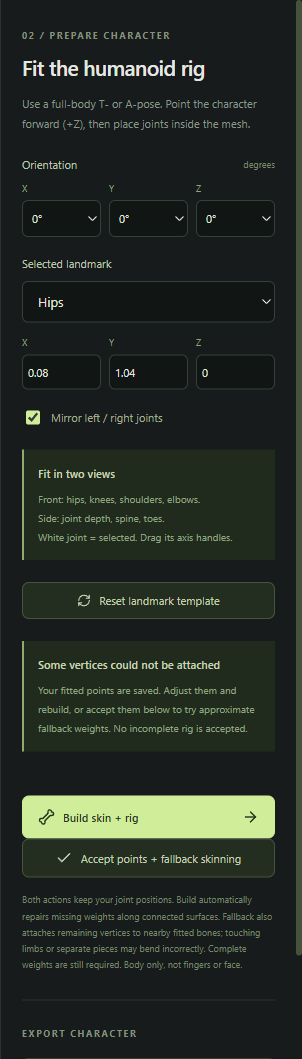
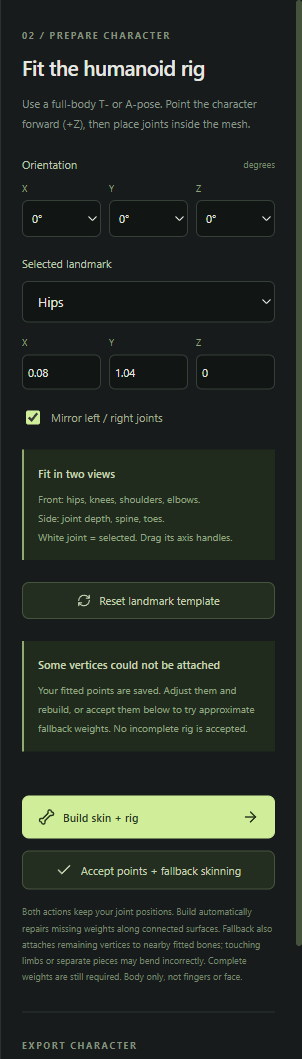
Add spacing between rigging action buttons
Use a scoped 12px gap, verify it in the desktop smoke check, and refresh the README screenshot.

Changed region(s): [[0.0596, 0.8102, 0.894, 0.9348], [0.0596, 0.966, 0.894, 1.0], [0.9834, 0.8725, 1.0, 0.9037]]

diff --git a/src/renderer/style.css b/src/renderer/style.css
@@ -1,4 +1,5 @@
 :root{font-family:"Segoe UI Variable","Segoe UI",sans-serif;color:#e5e8e2;background:#111414;font-synthesis:none;font-size:13px;--muted:#8c9692;--line:#2b3331;--lime:#d0ed9a;--panel:#171b1b}
+.rig-fallback-button{margin-top:12px}
 .graph-library.library-modal{width:min(1680px,97vw);padding:22px;max-height:96vh}.graph-library .library-grid{grid-template-columns:170px minmax(380px,1fr) 285px;gap:20px;align-items:start}.graph-library .preset-list{max-height:73vh;overflow:auto;padding-right:15px}.graph-inspector{border-left:1px solid #35432c;padding-left:18px;padding-right:5px;max-height:73vh;overflow:auto}.graph-inspector .field-label{margin-top:13px}.graph-inspector .three-fields{gap:6px}.graph-inspector .three-fields input{padding:9px 5px}.graph-inspector .checkbox{margin:13px 0}.graph-inspector .secondary.full{margin-top:12px}.motion-graph{height:430px;border:1px solid #486239;border-radius:8px;overflow:hidden;background:#10180e}.motion-graph .react-flow{--xy-background-color:#10180e;--xy-controls-button-background-color:#2b3c23;--xy-controls-button-color:#d8ebc7;--xy-controls-button-border-color:#4b613d}.graph-card{width:218px;background:#1f2c1a;border:1px solid #688b4e;border-radius:9px;padding:13px 15px;box-shadow:0 6px 16px #0004;color:#d9e8ce}.graph-card.action{background:#19272c;border-color:#587c8b}.react-flow__node.selected .graph-card{outline:2px solid #dcf6b8;outline-offset:3px}.graph-card-tags{display:flex;justify-content:space-between;font-size:8px;letter-spacing:1.3px;color:#a8c792;margin-bottom:10px}.graph-card.action .graph-card-tags{color:#8cb9ca}.graph-card-tags b{background:#476333;border-radius:3px;color:#e7fbd4;padding:2px 4px;letter-spacing:.5px}.graph-card strong{display:block;font-size:13px}.graph-card p{font-size:10px;line-height:1.6;color:#9eb094;margin:8px 0;display:-webkit-box;-webkit-line-clamp:2;-webkit-box-orient:vertical;overflow:hidden;overflow-wrap:anywhere}.graph-card small{font-size:8px;color:#90aa7f}.graph-card .react-flow__handle{width:13px;height:13px;background:#cbeea5;border:3px solid #263d1b}.graph-card.action .react-flow__handle{background:#a4d5e5;border-color:#183c49}.context-inspector{padding:15px;background:#162113;border:1px solid #344d29;border-radius:7px;margin-top:16px}.context-inspector>p{font-size:10px;line-height:1.7;color:#9cb48c;margin:9px 0}.context-inspector strong{font-weight:550;color:#c5d8b8}.context-inspector summary,.graph-targets>summary{cursor:pointer;font-size:11px;color:#c5d8b8}.context-inspector details{margin-top:12px}.effective-prompt{font-size:11px;line-height:1.8;background:#0f190c;border-radius:5px;padding:12px;color:#bed3ab;margin-top:10px}.context-results{margin-top:18px}.context-results>div{border-top:1px solid #35492a;padding-top:10px;margin-top:10px}.context-results small{font-size:9px}.graph-library .node-actions>.fine-print{margin:0 0 0 auto}.graph-library .batch-item>.node-actions{flex:0 0 auto}.graph-targets{padding-bottom:15px}@media(max-width:1250px){.graph-library .library-grid{grid-template-columns:140px minmax(340px,1fr) 245px;gap:14px}.graph-inspector{padding-left:12px}.graph-library .preset-list{padding-right:10px}.motion-graph{height:390px}}
 .model-setup-guide{margin:18px 0;padding:16px;border:1px solid #576d40;border-radius:8px;background:#1f2b1c}.model-setup-guide>summary{cursor:pointer;font-size:13px;font-weight:600;color:#d0ed9a}.model-setup-guide>summary>span{display:block;font-size:10px;font-weight:400;color:#a6b59b;margin:7px 0 0 15px}.model-setup-content{margin-top:16px;font-size:11px;line-height:1.8;color:#adbea3}.model-setup-content p{margin:10px 0}.model-setup-content strong{color:#d6e5c7;font-weight:600}.model-setup-steps{padding-left:22px;margin:17px 0}.model-setup-steps>li{padding-left:5px;margin:19px 0}.model-setup-steps>li::marker{color:#d0ed9a;font-weight:600}.model-setup-steps h3{font-size:12px;color:#d6e5c7;font-weight:600}.model-setup-content pre{white-space:pre-wrap;overflow-wrap:anywhere;user-select:text;padding:11px;background:#10180e;border:1px solid #3b4e30;border-radius:5px;color:#d2e8bc;font-size:10px;line-height:1.7}.model-setup-content code{font-family:Consolas,monospace}.model-setup-help{border-top:1px solid #3b4e30;padding:12px 0 0;margin-top:12px}.model-setup-help summary{cursor:pointer;color:#ccdebc;font-weight:500}
 *{box-sizing:border-box}body{margin:0}button,input,textarea,select{font:inherit}button{cursor:pointer;display:inline-flex;align-items:center;justify-content:center;gap:8px;color:inherit;background:none;border:1px solid transparent;border-radius:7px;transition:background .15s,color .15s}button:hover:not(:disabled){background:#2b3430}button:disabled{opacity:.4;cursor:not-allowed}button:focus-visible,input:focus-visible,select:focus-visible,textarea:focus-visible{outline:2px solid var(--lime);outline-offset:2px}input,select,textarea{width:100%;color:#e2e7df;background:#111615;border:1px solid #354039;border-radius:6px;padding:10px 11px;min-width:0}input[type=checkbox]{width:14px;height:14px;accent-color:var(--lime)}input[type=range]{accent-color:var(--lime);border:0;padding:0;height:3px}textarea{resize:vertical}h1,h2,h3,p{margin:0}h1{font-size:23px;letter-spacing:-.8px;font-weight:600}h2{font-size:19px;font-weight:550;letter-spacing:-.4px}h3{font-size:15px;font-weight:500}small{color:var(--muted)}svg{flex-shrink:0}.app{height:100vh;min-height:760px;display:flex;flex-direction:column}.topbar{height:70px;flex-shrink:0;border-bottom:1px solid var(--line);display:flex;align-items:center;justify-content:space-between;padding:0 26px;gap:20px;background:#151919}.brand{display:flex;align-items:center;gap:11px;white-space:nowrap}.brand-mark{width:32px;height:34px;border-radius:9px;background:var(--lime);color:#233020;display:grid;place-items:center}.brand strong{font-size:22px;letter-spacing:-1px;font-weight:700}.brand strong span{font-weight:350;color:#adb6ac;margin-left:3px}.version{font-size:9px;letter-spacing:1.5px;color:#8d998b;margin-left:10px;border-left:1px solid #46513d;padding-left:17px}.workspace-label{font-size:9px;color:#707d75;letter-spacing:2px}.connection{font-size:11px;padding:8px 10px;gap:9px;border-color:var(--line);color:#b7c7a3}.connection.warning{color:#e0bd81}.tiny-dot{display:inline-block;background:#b9d88b;width:6px;height:6px;border-radius:50%}.connection.warning .tiny-dot{background:#d7aa67}.studio-layout{display:grid;grid-template-columns:248px minmax(400px,1fr) 302px;flex:1;min-height:0}.left-panel,.right-panel{padding:25px 21px;background:var(--panel);overflow:auto}.left-panel{border-right:1px solid var(--line);display:flex;flex-direction:column}.right-panel{border-left:1px solid var(--line)}.section-kicker{color:#82927e;letter-spacing:1.65px;font-size:9px;font-weight:650;display:inline-block;margin-bottom:9px}.intro{color:var(--muted);font-size:12px;line-height:1.7;margin:12px 0 24px}.import-button{width:100%;padding:12px;border:1px solid #60734d;background:#293224;justify-content:flex-start;color:#d8ebbc;font-weight:500}.import-button span{font-size:8px;margin-left:auto;color:#a8b19d;letter-spacing:1px}.steps{display:flex;flex-direction:column;gap:10px;margin-top:26px}.step{display:flex;text-align:left;padding:9px 0;gap:11px}.step>svg{margin-left:auto;color:#657060}.step>span:nth-child(2){flex:1}.step strong{font-size:12px;font-weight:500;display:block}.step small{display:block;font-size:10px;margin-top:5px;color:#7c8781}.step-number{height:26px;width:26px;border:1px solid #3b443b;border-radius:50%;font-size:10px;color:#9aab8a}.step-number{display:grid;place-items:center}.step.ready .step-number{background:#324129;border-color:#56713d;color:var(--lime)}.step.current{color:var(--lime)}.panel-rule{height:1px;background:var(--line);margin:25px 0}.section-heading{display:flex;justify-content:space-between;align-items:center;gap:10px}.section-heading .section-kicker{margin:0}.section-heading small{font-size:10px;color:#6c7970}.count{font-size:9px;color:#899c7c;border-radius:4px;background:#252e25;padding:2px 5px;margin-left:9px}.asset-list{margin-top:17px;min-height:140px;max-height:260px;overflow:auto}.asset{width:100%;justify-content:flex-start;padding:10px 8px;text-align:left;margin-bottom:6px;border:1px solid transparent;gap:10px}.asset.active{border-color:#46553b;background:#222a21}.asset-icon{background:#303a2e;display:grid;place-items:center;height:38px;min-width:35px;border-radius:5px;color:#afbea0}.asset>span:last-child{min-width:0}.asset strong{font-weight:500;font-size:11px;text-overflow:ellipsis;overflow:hidden;display:block;white-space:nowrap}.asset small{display:block;font-size:9px;margin-top:5px;color:#86957c}.asset-detail{display:flex;justify-content:space-between;font-size:8px;letter-spacing:.6px;color:#68766c;margin:4px 0 20px}.empty-assets{display:flex;align-items:center;flex-direction:column;color:#566359;padding:20px 0 5px}.empty-assets p{font-size:12px;color:#87938b;margin:14px 0 8px}.empty-assets small{font-size:10px}.local-note{display:flex;gap:10px;margin-top:auto;padding-top:35px;color:#829476}.local-note strong{font-size:11px;font-weight:500;color:#a7b59c}.local-note p{font-size:10px;line-height:1.8;margin-top:6px;color:#72816f}.text-button{font-size:11px;color:#9ea998}.data-button{padding:15px 0 0;justify-content:flex-start;color:#7c897a;font-size:10px}.center-panel{min-width:0;display:flex;flex-direction:column;padding:23px 24px 20px;overflow:auto;background:#101514}.scene-heading{display:flex;align-items:center;justify-content:space-between;min-height:57px;gap:14px;margin-bottom:17px}.scene-heading .section-kicker{margin-bottom:7px}.scene-heading h2{font-size:18px}.file-tag{vertical-align:middle;margin-left:12px;font-size:8px;letter-spacing:1px;color:#b6c49a;background:#263023;padding:4px 6px;border-radius:3px;font-weight:500}.view-tabs{display:flex;padding:3px;border:1px solid var(--line);border-radius:6px;gap:2px}.view-tabs button{font-size:10px;padding:6px 8px;border-radius:4px;color:#819080}.view-tabs .active{background:#333e2c;color:#d1e5b2}.viewport{position:relative;border:1px solid #354039;border-radius:9px;overflow:hidden;min-height:350px;flex:1;max-height:900px;background:#181c1d}.webgl{position:absolute;inset:0 0 48px;overflow:hidden}.webgl canvas{display:block;width:100%;height:100%}.viewport-meta{position:absolute;top:18px;left:18px;right:18px;display:flex;align-items:center;gap:8px;font-size:8px;letter-spacing:1px;color:#b4c0a9;pointer-events:none}.view-format{margin-left:auto;color:#748276;font-size:8px;letter-spacing:1px}.view-tools{position:absolute;top:55px;right:14px;display:flex;flex-direction:column;background:#19201ddc;border:1px solid #364035;border-radius:6px;padding:3px}.view-tools button{width:29px;height:32px;border-radius:3px;color:#9aa98c}.view-tools .selected{background:#34442b;color:#d4f199}.viewport-hint{position:absolute;bottom:65px;left:16px;color:#849080;font-size:9px;letter-spacing:.25px;pointer-events:none}.playback{position:absolute;height:48px;bottom:0;left:0;right:0;background:#1c221fdc;border-top:1px solid #354035;display:flex;align-items:center;padding:0 12px;gap:12px}.playback button{padding:5px;color:#c8dda7}.playback .time{font-size:10px;font-variant-numeric:tabular-nums;color:#92a484;min-width:32px}.loop-tag{font-size:7px;white-space:nowrap;letter-spacing:1px;color:#6e8164;margin-left:8px}.empty-viewport{position:absolute;top:44%;left:50%;transform:translate(-50%,-50%);text-align:center;width:100%;pointer-events:none}.character-outline{width:130px;height:130px;display:grid;place-items:center;margin:0 auto 17px;border:1px solid #657a4e33;border-radius:50%;color:#7e996666;box-shadow:0 0 0 15px #657a4e08,0 0 0 40px #657a4e05}.empty-viewport h2{font-size:21px;color:#c8d8b2;font-weight:400;letter-spacing:-.6px}.empty-viewport p{font-size:12px;color:#84917e;line-height:1.7;margin-top:12px}.empty-viewport>span{display:block;font-size:8px;letter-spacing:2px;color:#66765c;margin-top:22px}.viewport-notice,.viewport-error{position:absolute;top:60px;left:20px;max-width:70%;padding:12px;background:#202920eb;border:1px solid #45553c;border-radius:7px;font-size:12px;display:flex;align-items:center;gap:10px}.viewport-error{color:#efb9a5;background:#402a25;top:100px}.spinner{width:12px;height:12px;border:1px solid #778d62;border-top-color:#e3fcc5;border-radius:50%;animation:spin 1s linear infinite}.takes{margin-top:24px;flex-shrink:0}.no-takes{display:flex;align-items:center;gap:14px;margin-top:19px;padding:14px 0;color:#829175}.take-placeholder{height:42px;width:47px;background:#202820;border:1px dashed #384831;display:grid;place-items:center;border-radius:6px}.no-takes strong{font-size:12px;font-weight:450;color:#aab69e}.no-takes p{font-size:10px;color:#64775d;margin-top:6px}.take-list{display:flex;flex-direction:column;margin-top:12px;max-height:156px;overflow:auto;gap:5px}.take{padding:9px;text-align:left;justify-content:flex-start;border:1px solid #2d392a}.take.selected{background:#293721;border-color:#607748}.take>span:nth-child(2){flex:1;min-width:0}.take strong{display:block;font-size:11px;font-weight:500;text-overflow:ellipsis;white-space:nowrap;overflow:hidden}.take small{display:block;font-size:9px;margin-top:3px}.take .failure-text{white-space:normal;color:#daaa8e;max-height:50px;overflow:auto}.take:disabled{opacity:.8}.take-icon{padding:6px;background:#2b3925;color:#b0c78f;border-radius:4px}.take-time{font-size:9px;color:#79896e}.right-panel h2{font-size:21px;margin-top:3px;letter-spacing:-.6px}.panel-description{font-size:11px;color:#87978a;line-height:1.8;margin:12px 0 24px}.field-label{font-size:11px;display:flex;justify-content:space-between;align-items:center;margin:19px 0 10px;color:#bac7ad}.field-label span{font-size:9px;color:#75886b}.prompt-field{background:#101710;border:1px solid #48523f;border-radius:7px;overflow:hidden}.prompt-field textarea{border:0;resize:vertical;min-height:120px;line-height:1.8;font-size:12px;padding:14px;background:transparent;color:#d7e3c6}.prompt-field>span{display:block;font-size:8px;letter-spacing:.5px;text-align:right;padding:7px 11px;color:#718369}.prompt-suggestions{display:flex;flex-wrap:wrap;gap:5px;margin-top:9px}.prompt-suggestions button{border:1px solid #354032;border-radius:4px;font-size:9px;padding:5px 7px;color:#8f9e83}.two-fields{display:grid;grid-template-columns:1fr 1fr;gap:12px}.two-fields>label{font-size:10px;color:#afbea3}.two-fields input{margin-top:9px}.unit-input{position:relative}.unit-input input{padding-right:35px}.unit-input span{position:absolute;right:23px;top:22px;color:#677b5c;font-size:9px;pointer-events:none}.checkbox{font-size:11px;color:#a2b094;display:flex;align-items:center;gap:8px;margin:18px 0}.fine-print{font-size:9px;color:#76856c;line-height:1.8;margin:14px 0 0}.full{width:100%}.primary{background:var(--lime);color:#25341d;padding:12px 15px;font-weight:600;font-size:11px;border:1px solid #d0ed9a;min-height:40px}.primary:hover:not(:disabled){background:#e0fbb6}.primary.full{margin-top:22px}.primary>svg:last-child:not(:first-child){margin-left:auto}.secondary{background:#232e20;border:1px solid #47543d;padding:10px 13px;color:#c2d1b1;font-size:11px}.text-button.full{margin-top:14px}.setup-warning{align-items:flex-start;background:#372e1f6b;border:1px solid #5e4e307a;color:#d4b685;padding:12px 10px;text-align:left;margin-top:20px;width:100%}.setup-warning span{font-size:10px;line-height:1.4}.setup-warning small{font-size:9px;color:#9a855f;display:flex;align-items:center;gap:4px;margin-top:6px}.output-section{border-top:1px solid var(--line);margin-top:27px;padding-top:22px}.output-section h3{margin:4px 0 17px;color:#b2c69e}.export-disabled{margin-top:10px;display:flex;align-items:center;gap:10px;background:#1f281c;border:1px solid #333f2c;border-radius:6px;padding:12px;color:#748867;font-size:11px}.download{width:100%;padding:10px 5px;justify-content:flex-start;border-bottom:1px solid #2e3a27;border-radius:0;color:#bbd29f;font-size:10px}.xyz-fields{display:grid;grid-template-columns:repeat(3,1fr);gap:8px}.xyz-fields label{font-size:9px;color:#8fa27d}.xyz-fields select,.xyz-fields input{font-size:11px;padding:9px 5px;margin-top:6px}.positions{margin-top:14px}.fit-instructions{margin:22px 0;padding:14px;background:#202b1e;border-left:2px solid #91aa70}.fit-instructions strong{font-size:11px;color:#c7d6b6;font-weight:500}.fit-instructions p{font-size:10px;color:#92a481;line-height:1.9;margin-top:8px}.warnings{font-size:10px;color:#b49b77;border:1px solid #4c412e;border-radius:5px;padding:10px;margin-top:16px}.warnings summary{cursor:pointer;display:flex;justify-content:space-between}.warnings p{line-height:1.7;margin-top:8px;font-size:9px}.job-progress{display:flex;gap:12px;align-items:center;margin-top:12px;padding:14px;background:#202c1d;border:1px solid #405936;border-radius:7px;color:#b5d697}.job-progress>div{flex:1}.job-progress strong{font-size:9px;letter-spacing:1px}.job-progress p{font-size:11px;color:#aebfa1;margin-top:4px}.job-progress button{padding:7px;font-size:10px;border:1px solid #526646}.progress-track{height:3px;background:#3a4631;margin-top:10px}.progress-track span{display:block;height:3px;background:var(--lime);transition:width .3s}.banner{display:flex;align-items:flex-start;gap:10px;padding:13px;border-radius:6px;margin-top:12px;font-size:11px;line-height:1.7}.banner>span{flex:1;white-space:pre-wrap;max-height:140px;overflow:auto;overflow-wrap:anywhere}.banner>button{padding:0;color:inherit}.banner.error{background:#3a2820;border:1px solid #76513c;color:#e3b697}.banner.success{background:#23321d;border:1px solid #4d6836;color:#c3dcab}footer{height:31px;flex-shrink:0;border-top:1px solid #293625;background:#131b12;display:flex;align-items:center;justify-content:space-between;padding:0 24px;color:#768969;font-size:8px;letter-spacing:.7px}footer>span{display:flex;align-items:center;gap:7px}.spin{animation:spin 1.3s linear infinite}@keyframes spin{to{transform:rotate(360deg)}}.modal-backdrop{position:fixed;inset:0;background:#000b;backdrop-filter:blur(6px);display:flex;align-items:center;justify-content:center;z-index:100;padding:30px}.settings-modal{max-width:670px;width:100%;max-height:94vh;overflow:auto;background:#181f17;border:1px solid #48573f;border-radius:12px;padding:28px 32px;box-shadow:0 25px 90px #0009}.modal-heading{display:flex;justify-content:space-between;align-items:center}.modal-heading h2{font-size:23px}.settings-modal .panel-description{margin-bottom:15px}.path-field{display:flex;gap:8px}.path-field input{font-size:11px}.path-field button{padding:9px;background:#2b3824;border:1px solid #45583a}.settings-actions{display:flex;gap:10px;margin:21px 0 28px;justify-content:flex-end}.checks{display:flex;flex-direction:column;gap:8px;margin-top:13px}.check{display:flex;gap:10px;padding:11px 12px;background:#121b10;border:1px solid #2d4024;border-radius:5px;color:#92b877}.check>svg{margin-top:2px}.check strong{font-size:11px;color:#b5cda2;font-weight:500}.check p{font-size:10px;color:#8da27c;line-height:1.8;margin-top:4px;overflow-wrap:anywhere}.check.blocked{background:#332a1b;border-color:#564328;color:#e4b97d}.check.blocked strong{color:#d9bb8e}.check.blocked p{color:#b09b7c}.check.warning{color:#c5c88e}.settings-modal .secondary.full{margin-top:14px}.modal-error{color:#e0ac8e;font-size:11px;line-height:1.7;white-space:pre-wrap;margin-top:12px}.fatal{padding:60px;color:#d9e7c8}.fatal button{padding:12px;background:#405530;margin-top:20px}::-webkit-scrollbar{width:6px;height:6px}::-webkit-scrollbar-thumb{background:#45533c;border-radius:6px}::-webkit-scrollbar-track{background:transparent}@media(min-width:1600px){.studio-layout{grid-template-columns:270px minmax(400px,1fr) 330px}.left-panel,.right-panel{padding:29px 26px}.center-panel{padding:26px 30px 22px}}@media(max-width:1180px){.studio-layout{grid-template-columns:215px minmax(400px,1fr) 280px}.left-panel,.right-panel{padding:22px 16px}.center-panel{padding:20px 16px}.workspace-label{display:none}.scene-heading h2{font-size:16px}.file-tag{display:none}.view-tabs button{padding:5px;font-size:9px}}

diff --git a/src/renderer/App.tsx b/src/renderer/App.tsx
@@ -207,7 +207,7 @@ export function App() {
           {dirty && <button className="text-button full" disabled={locked} onClick={() => void perform(async () => { await saveFit(); setNotice('Fit saved. Rebuild the rig to apply these changes.') })}><CheckIcon size={14} /> Save fit without rigging</button>}
           {skinningFailed && <div className="fit-instructions" role="status"><strong>Some vertices could not be attached</strong><p>Your fitted points are saved. Adjust them and rebuild, or accept them below to try approximate fallback weights. No incomplete rig is accepted.</p></div>}
           <button className="primary full" disabled={locked} onClick={() => void createRig()}><Bone size={17} /> {character.rigged && !dirty ? 'Rebuild skin + rig' : 'Build skin + rig'}<ArrowRight size={17} /></button>
-          <button className="secondary full" disabled={locked} onClick={() => void createRig('fallback')}><CheckIcon size={17} /> Accept points + fallback skinning</button>
+          <button className="secondary full rig-fallback-button" disabled={locked} onClick={() => void createRig('fallback')}><CheckIcon size={17} /> Accept points + fallback skinning</button>
           <p className="fine-print">Both actions keep your joint positions. Build automatically repairs missing weights along connected surfaces. Fallback also attaches remaining vertices to nearby fitted bones; touching limbs or separate pieces may bend incorrectly. Complete weights are still required. Body only, not fingers or face.</p>
         </> : <>
           <div className="section-kicker">03 / DIRECT THE MOTION</div><h2>What’s the move?</h2><p className="panel-description">Describe a movement. Kimodo generates the motion; Blender applies it to your character.</p>
